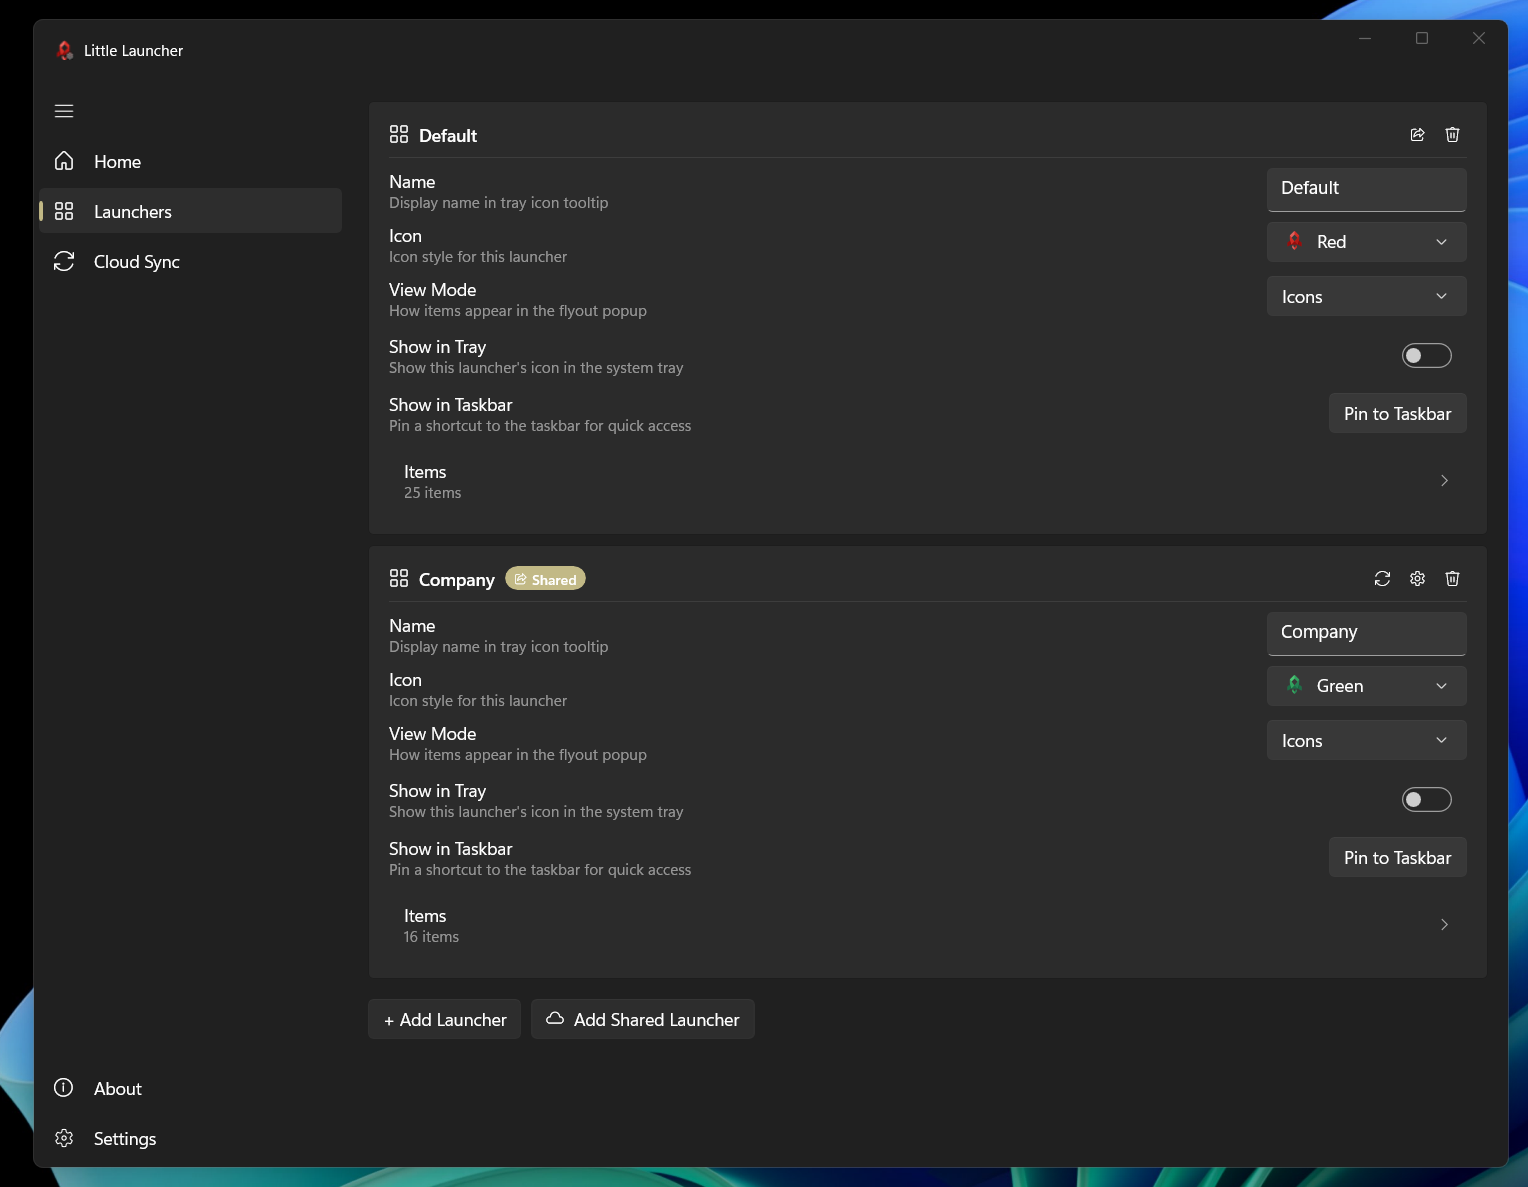
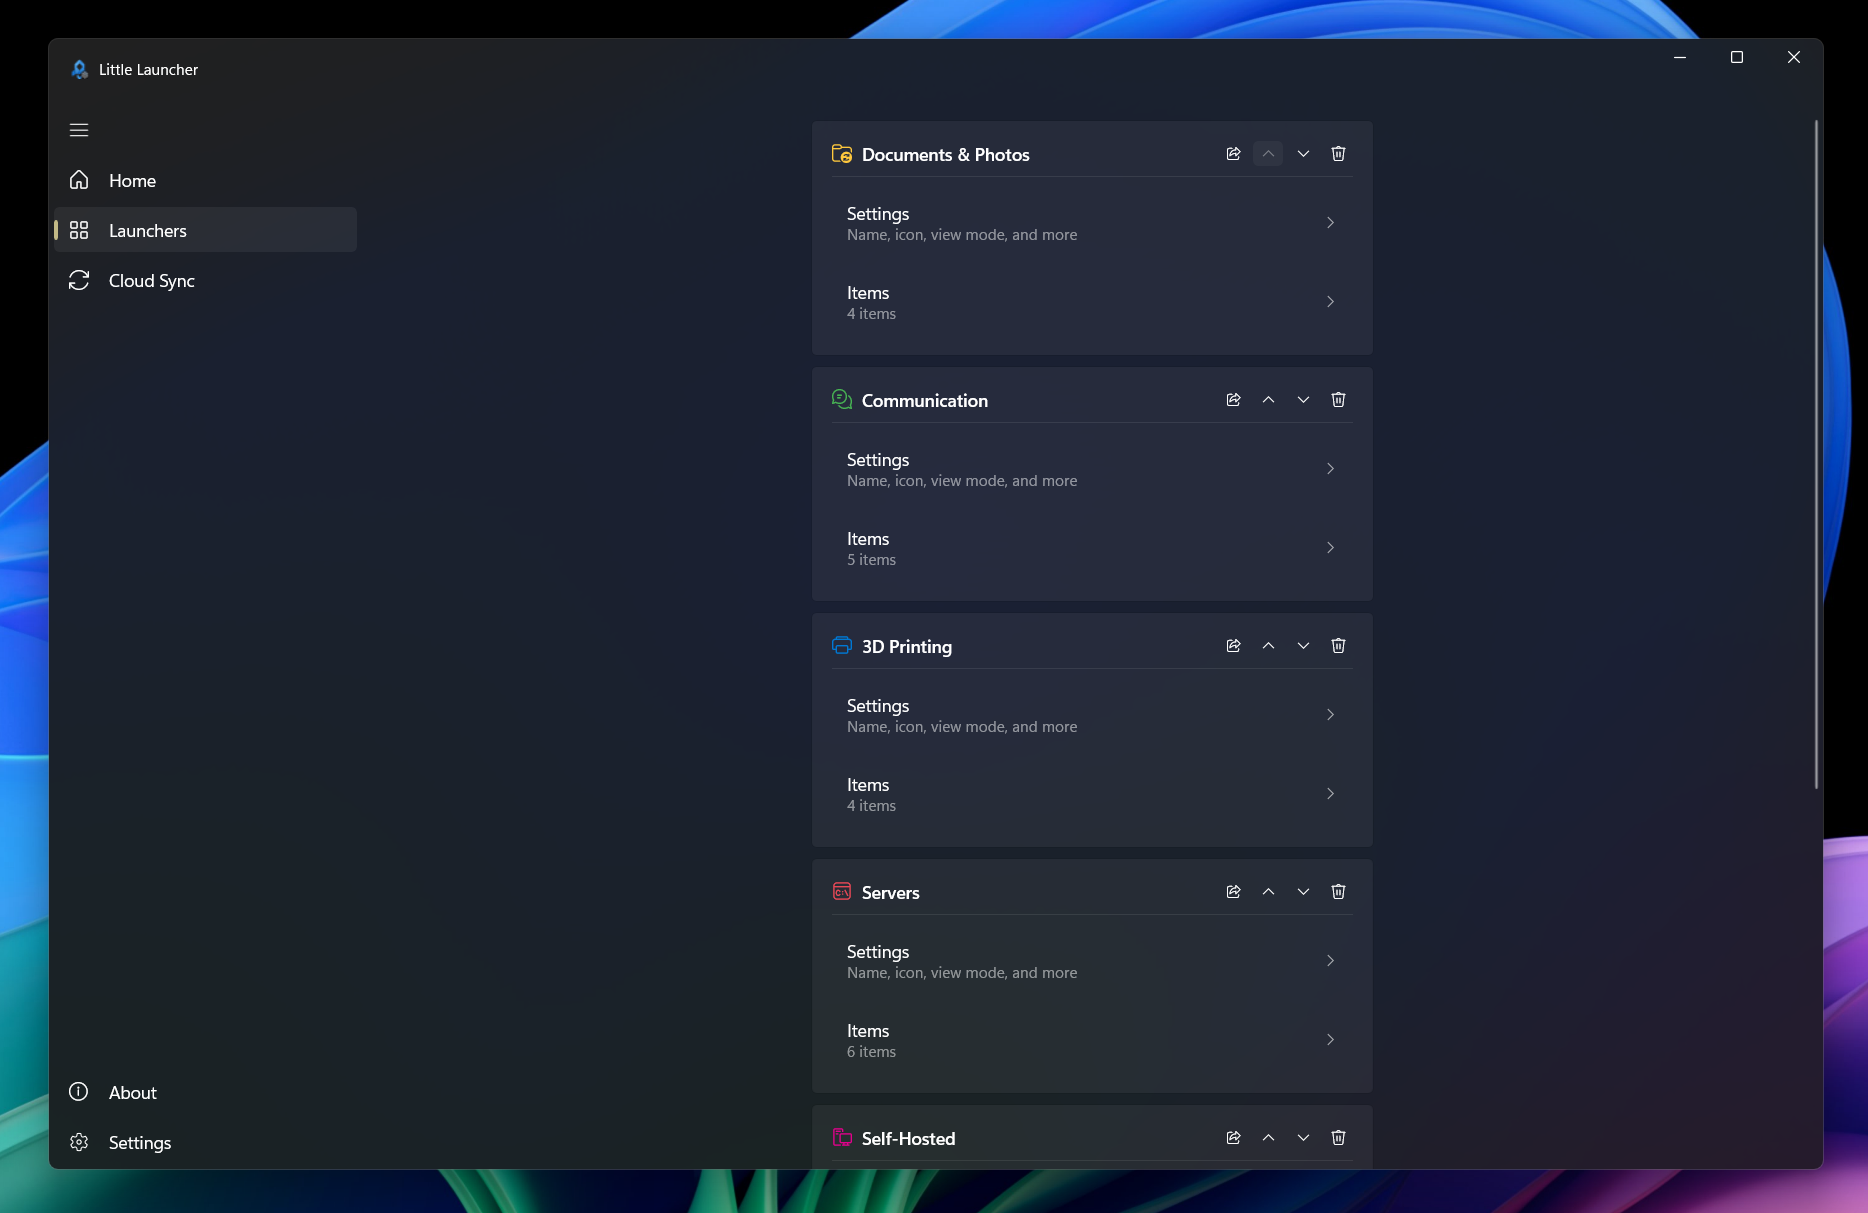
Update README screenshots

diff --git a/README.md b/README.md
@@ -18,19 +18,29 @@
 </p>
 
 <p align="center">
-  <img src="docs/list-mode.png" alt="Little Launcher flyout — list mode" width="720">
+  <img src="docs/list-launcher.png" alt="Flyout — list view" width="300">
+  &nbsp;&nbsp;
+  <img src="docs/icon-launcher.png" alt="Flyout — icon view" width="300">
 </p>
 
 <p align="center">
-  <img src="docs/icon-mode.png" alt="Little Launcher flyout — icon mode" width="720">
+  <img src="docs/icon-launcher-multiple-cols.png" alt="Flyout — icon view with multiple columns" width="720">
 </p>
 
 <p align="center">
-  <img src="docs/launchers.png" alt="Launcher settings" width="720">
+  <img src="docs/launchers.png" alt="Launchers page" width="720">
 </p>
 
 <p align="center">
-  <img src="docs/launcher-items.png" alt="Launcher items settings" width="720">
+  <img src="docs/launcher-settings.png" alt="Launcher settings dialog" width="720">
+</p>
+
+<p align="center">
+  <img src="docs/launcher-items.png" alt="Launcher items — icon mode" width="720">
+</p>
+
+<p align="center">
+  <img src="docs/list-settings.png" alt="Launcher items — list mode" width="720">
 </p>
 
 ## Overview